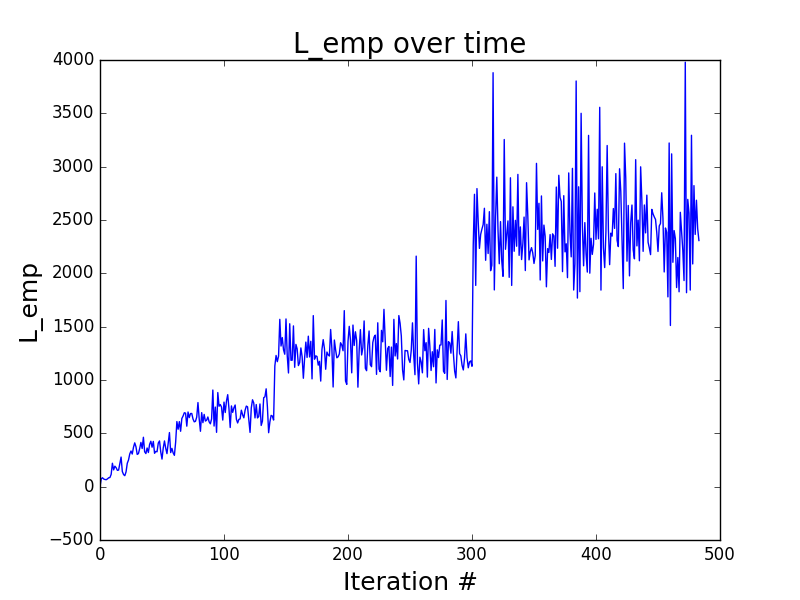
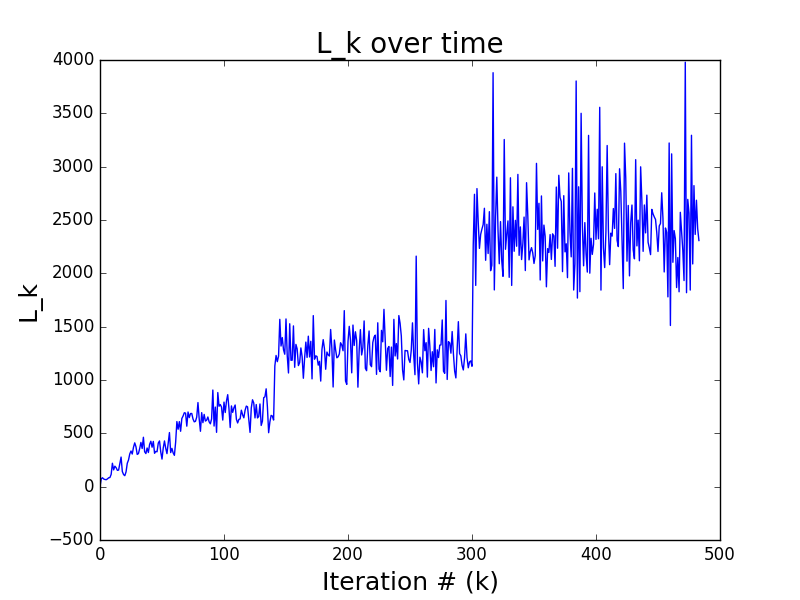
better looking

Changed region(s): [[0.3438, 0.06, 0.6562, 0.09], [0.4062, 0.96, 0.625, 0.99], [0.0312, 0.45, 0.0625, 0.57]]

diff --git a/nn_graph.py b/nn_graph.py
@@ -3,16 +3,17 @@ import matplotlib.pyplot as plt
 import scipy.io as sio
 import pdb
 
-sgd_loss  = sio.loadmat('sgd_back.mat')['x'][:,0]
-rms_loss  = sio.loadmat('rmsprop.mat')['x'][:,0]
-adam_loss = sio.loadmat('adam.mat')['x'][:,0]
+sgd_loss  = sio.loadmat('mats/sgd_back.mat')['x'][:,0]
+rms_loss  = sio.loadmat('mats/rmsprop.mat')['x'][:,0]
+adam_loss = sio.loadmat('mats/adam.mat')['x'][:,0]
 
-plt.plot(sgd_loss,  label='SGD-Back')
-plt.plot(rms_loss,  label='RMSProp Loss')
-plt.plot(adam_loss, label='Adam Loss')
+lw=6
+plt.plot(sgd_loss,  label='SGD-Back', linestyle='-', lw=lw)
+plt.plot(rms_loss,  label='RMSProp Loss', linestyle=':', lw=lw)
+plt.plot(adam_loss, label='Adam Loss', linestyle='--', lw=lw)
 
 plt.title("Convergence for various algorithms", fontdict={'fontsize':20})
-plt.xlabel("Iteration #", fontdict={'fontsize':18})
+plt.xlabel("Iteration # (k)", fontdict={'fontsize':18})
 plt.ylabel("Loss", fontdict={'fontsize':18})
 plt.axis([0, 200, 0, 10])
 

diff --git a/graph_L.py b/graph_L.py
@@ -5,9 +5,9 @@ import pdb
 
 Ls = sio.loadmat('mats/Ls.mat')['x'][:,0]
 plt.plot(Ls)
-plt.title("L_emp over time", fontdict={'fontsize':20})
-plt.xlabel("Iteration #", fontdict={'fontsize':18})
-plt.ylabel("L_emp", fontdict={'fontsize':18})
+plt.title("L_k over time", fontdict={'fontsize':20})
+plt.xlabel("Iteration # (k)", fontdict={'fontsize':18})
+plt.ylabel("L_k", fontdict={'fontsize':18})
 # plt.axis([0, 200, 0, 10])
 
 plt.show()
